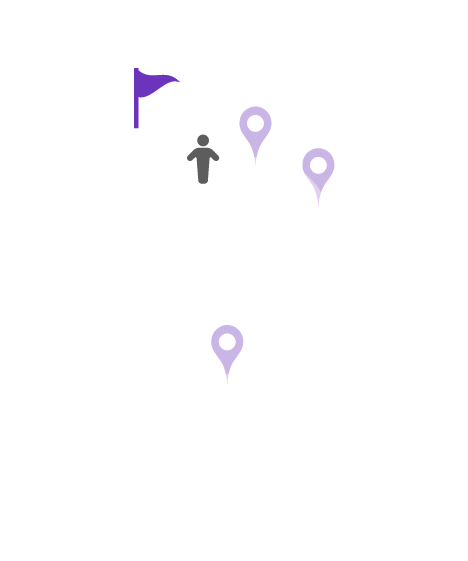
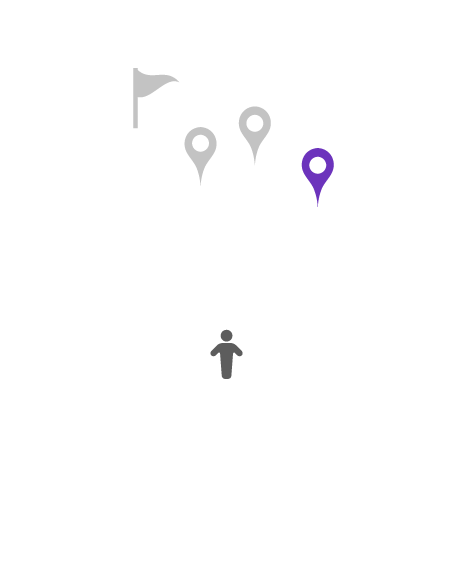
changes in the wind

diff --git a/js/checkpoint.js b/js/checkpoint.js
@@ -120,7 +120,7 @@ $(document).ready(function() {
         chkobj.svar_four = chkpoint_two.var_four;
         chkobj.correct = chkpoint_two.correct;
         break;
-    case 3:
+    case '3':
         chkobj.header_title = chkpoint_three.id;
         chkobj.title = chkpoint_three.title;
         chkobj.address = chkpoint_three.adresa;
@@ -132,7 +132,7 @@ $(document).ready(function() {
         chkobj.svar_four = chkpoint_three.var_four;
         chkobj.correct = chkpoint_three.correct;
         break;
-    case 4:
+    case '4':
         chkobj.header_title = chkpoint_four.id;
         chkobj.title = chkpoint_four.title;
         chkobj.address = chkpoint_four.adresa;
@@ -144,7 +144,7 @@ $(document).ready(function() {
         chkobj.svar_four = chkpoint_four.var_four;
         chkobj.correct = chkpoint_four.correct;
         break;
-    case 5:
+    case '5':
         chkobj.header_title = chkpoint_two.id;
         chkobj.title = chkpoint_two.title;
         chkobj.address = chkpoint_two.adresa;
@@ -168,9 +168,9 @@ console.log(chkobj.svar_one);
       $('.chk-title').html(chkobj.title);
       $('.chk-address').html(chkobj.address);
       $('.question').html(chkobj.question_title);
-      $('.svar-one').html(chkobj.svar_one);
+      $('.svar-one p').html(chkobj.svar_one);
       $('.svar-two').html(chkobj.svar_two);
-      $('.svar-three').html(chkobj.svar_three);
+      $('.svar-three p').html(chkobj.svar_three);
       $('.svar-four').html(chkobj.svar_four);
 
 }

diff --git a/js/map.js b/js/map.js
@@ -2,40 +2,47 @@ $(document).ready(function() {
 
   if ( localStorage.getItem('stepcounter') ) {
     var stepcountermap = localStorage.getItem('stepcounter');
- }
-
-  $('.play-quest').bind("click", function() {
-    stepcountermap++;
-    //localStorage.setItem('stepcounter', stepcountermap);
-    changebg ();
-});
-
-console.log(stepcountermap);
-
+  }
   var mappath = '';
-switch(stepcountermap) {
+  switch(stepcountermap) {
   case '0':
-    mappath = 'img/start.png';
+      mappath = 'img/start.png';
   case '1':
       mappath = 'img/step1.png';
       break;
   case '2':
       mappath = 'img/step2.png';
       break;
-  case 3:
+  case '3':
       mappath = 'img/step3.png';
       break;
-  case 4:
-    mappath = 'img/step4.png';
-      break;
-  case 5:
+  case '4':
     mappath = 'img/finish.png';
+    window.location.href = "http://quest.ateluhm.ro/hooray.html";
+      break;
+  case '5':
+    mappath = 'img/finish.png';
+
+      break;
+  case '6':
+
       break;
   default:
       //default code block
     }
 
-function changebg () {
+
     $('.imgmap').attr('src', mappath);
-  }
+
+
+  $('.play-quest').bind("click", function() {
+    stepcountermap++;
+    localStorage.setItem('stepcounter', stepcountermap);
+    //changebg ();
+});
+
+console.log(stepcountermap);
+
+
+
 })

diff --git a/checkpoint.html b/checkpoint.html
@@ -48,14 +48,19 @@
       <div class="row">
         <div class="col-md-12 text-left">
           <h4 class="question"></h4>
-          <span class="svar-one btn btn-purple display-block m-b-1">
-          </span>
+          <a class="svar-one btn btn-purple display-block m-b-1"><p>
+
+					</p>
+          </a>
           <a class="svar-two btn btn-purple display-block m-b-1">
           </a>
-          <a class="svar-three btn btn-purple display-block m-b-1">
+          <a class="svar-three btn btn-purple display-block m-b-1"><p>
+						
+					</p>
           </a>
 					<a class="svar-four btn btn-purple display-block m-b-1" href="map.html" >
           </a>
+					<!-- <a class="hooraybtn" href="hooray.html"></a> -->
         </div>
       </div>
       </div>

diff --git a/hooray.html b/hooray.html
@@ -28,7 +28,10 @@
 	<body>
 		<div class="wrap wrap-hooray center-content">
 			<img src="img/hooray.gif"/>
-			
+
+			<div class="smthspecial">
+					<h1 class="text-purple">HOOORAAAY</h1>
+			</div>
 				<!-- <img src="img/ios-status-bar.png" class="hidden-lg hidden-md hidden-sm p-a-5"/>
 				<nav class="center-content">
 					<h1 class="text-uppercase">HOORAY</h1>

diff --git a/map.html b/map.html
@@ -35,7 +35,7 @@
 				<div class="container">
 					<div class="row">
 						<div class="col-md-12">
-              <img src="img/start.png" class="imgmap"/>
+              <img src="" class="imgmap"/>
               <a class="btn btn-purple play-quest" href="checkpoint.html">PLAY QUEST</a>
 						</div>
 					</div>

diff --git a/css/style.css b/css/style.css
@@ -54,6 +54,9 @@ input[type=text], input[type=password] {
 .p-a-5 {
   padding: 5px;
 }
+.text-purple {
+	color:#6633cc;
+}
 .wrap {
 	margin: 0 auto;
 	text-align: center;
